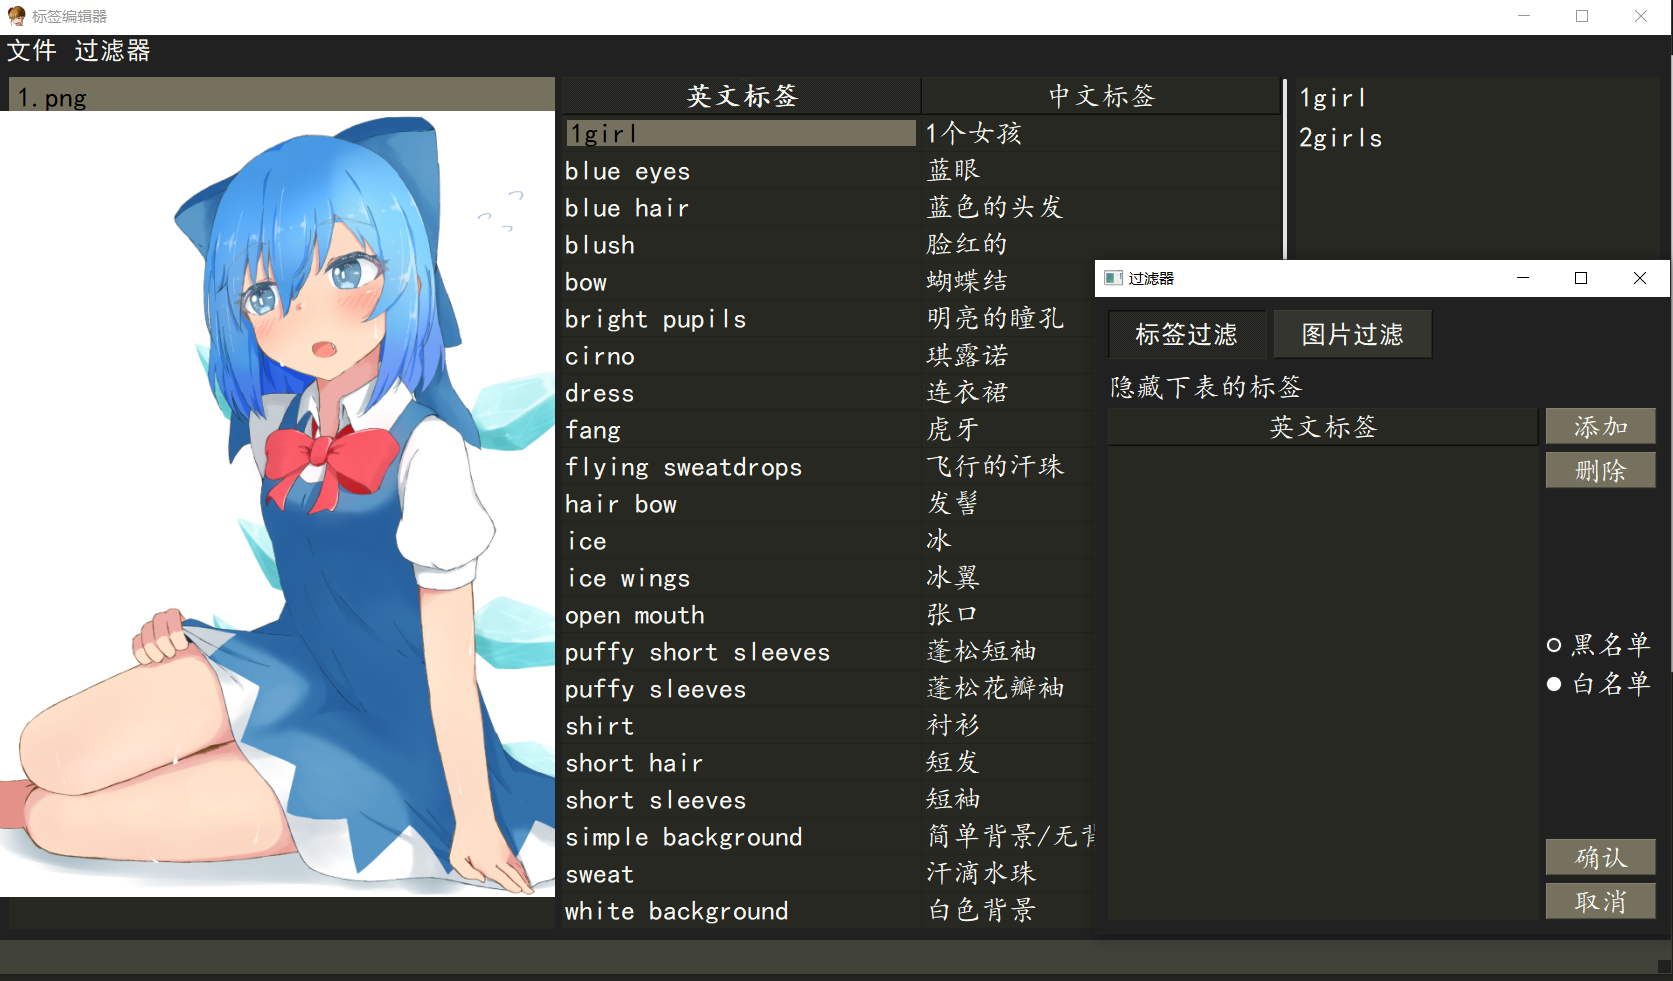
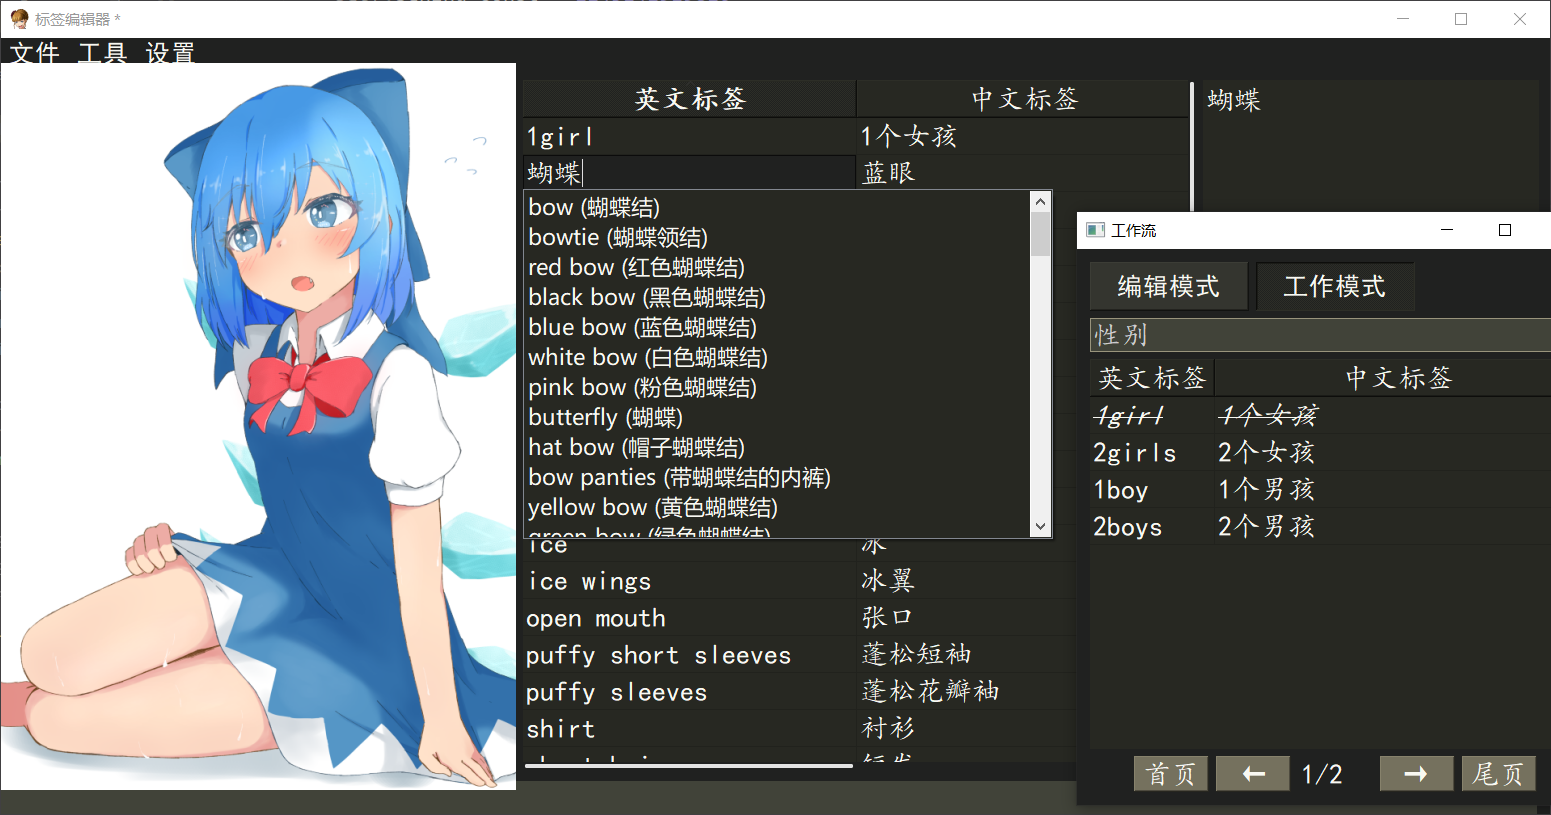
Update Readme_cn and del start.bat

diff --git a/README_cn.md b/README_cn.md
@@ -1,62 +1,75 @@
-## 功能与特性
-方便对于**单张**图片的DanBooru标签精修。
+## 程序简介
+一个针对**单张**图片的DanBooru标签精修小程序。
 
+### 功能与特色
 - 暗色Monokai界面
-- 实用快捷键
-- 快捷拷贝列表缓存用过的标签
-- 基本的过滤功能
+- 自动补全
 - 撤销重做
-- 保存时是否排序
+- 黑白名单过滤器
+- 标签工作流
+- 标签保存时排序模式选择
+- 多线程载入图片
+- 缓存用过的标签
 
 ![](./imgs/display.png)
 
 ## 安装与启动
 
-### Step1：安装pyqt5
+### 安装
+
+```
+git clone https://github.com/Aleiluo/danbooruTagEditor
+```
+
+### 启动
+
+**Step1**：安装pyqt5
 
 ```
 pip install pyqt5
 ```
 
-### Step2
-运行**start.bat**，或者
+**Step2**：运行程序
+
 ```
 python GUI.py
 ```
 
-## 功能介绍
+> ps：我用Python3.9.13进行开发，其他能装上pyqt5的版本应该都能跑。
 
-### 图片列表(imageList)
+## 快捷键
 
+### 图片列表
 - Ctrl + S：保存
 - Alt + S：显示/隐藏预览图
 - Alt + Up（鼠标上滚轮）：选择上一张图片
 - Alt + Down（鼠标下滚轮）：选择下一张图片
 - Enter：进入标签表格
 
-### 标签列表(tagTable)
+### 标签列表
 
+- Enter：进入编辑模式
+- Ctrl + N：添加新的行
 - Ctrl + C：复制
-- Ctrl + V：剪贴板的内容覆盖选中内容
-  - 若选中第一列：覆盖英文标签
-  - 若选中第二列：覆盖翻译内容
-- Shift + V：添加剪贴板中的内容到表格
-- Del：删除选中行（可多选）
+- Ctrl + V：粘贴
+  - 若选中第一列：覆盖标签
+  - 若选中第二列：覆盖译文
+- Shift + V：将剪贴板的的内容插入到表中
+- Del：删除选中行
 - Ctrl + Z：撤销
 - Ctrl + Y：重做
-- Enter：进入编辑模式
 - Esc：返回图片列表
 
 > 更改翻译内容会自动保存翻译文件
 
-### 拷贝列表(copyList)
+### 拷贝列表
 拷贝列表会记录在标签列表中**增加**或者**修改**的标签。
 
 - 左键：将该行内容添加到标签列表中
 - 右键：删除当前内容
 
-### 过滤器(Filter)
-过滤器可以同时过滤标签和图像
+### 过滤器
+过滤器可以同时过滤标签和图片，注意图片过滤是针对图片拥有的标签，而不是图片名字。
 
 - Left：切换到标签过滤
 - Right：切换到图片过滤
@@ -64,18 +77,10 @@ python GUI.py
 - Del：删除行
 - Ctrl + Enter：应用过滤器
 
-## 其他说明
+### 工作流
+工作流分为编辑模式和工作模式。在编辑模式里，可以定义多个标签类别。在工作模式中可以便捷地按类别添加标签。
 
-### 文件格式
-- 文件夹中的图片必须是 **.jpg** 或者 **.png** 格式的。
-- 每一张图片对应一个同名的 **.txt** 标签文档，文档内标签用逗号分隔。
-
-### 快捷键改写
-主窗口的快捷键集中在 interactive_events
-过滤器的快捷键集中在 tagfilter
-
-## TODO
-添加工作流，让标签的添加更加方便。在编辑模式，里可以定义多个类别，定义完毕后在工作模式中可以便捷地添加标签。比如：
+比如：
 - 视角（第一页）
   - 正面
   - 侧面
@@ -93,8 +98,23 @@ python GUI.py
   - T恤
 - 其他部位...
 
-该功能的设计主要考虑下面几个原因：
-- 在打标器打标的基础上，人体每一个部位错误的或者需要添加标签的数目较少。
-- 用户进行添加标签时，往往会有自己的标签文档，该功能可以减少用户在标签文档和打标器间来回切换。
+**相关快捷键**
 
-![](imgs/todo_workingflow.png)
+- Left / Right：切换页
+
+其余快捷键均与**图片列表**和**标签列表**的类似。
+
+### 自动补全
+
+上下选择补全项，Tab进行补全，也可以按Enter或者鼠标点击(在工作流窗口中会有点小bug)。
+
+## 其他说明
+
+### 文件格式
+- 文件夹中的图片必须是 **.jpg** 或者 **.png** 格式的。
+- 每一张图片对应一个同名的 **.txt** 标签文档，文档内标签用逗号分隔。
+
+## TODO
+
+- 添加批量添加、删除功能
+- 添加设置窗口，方便快捷键更换
